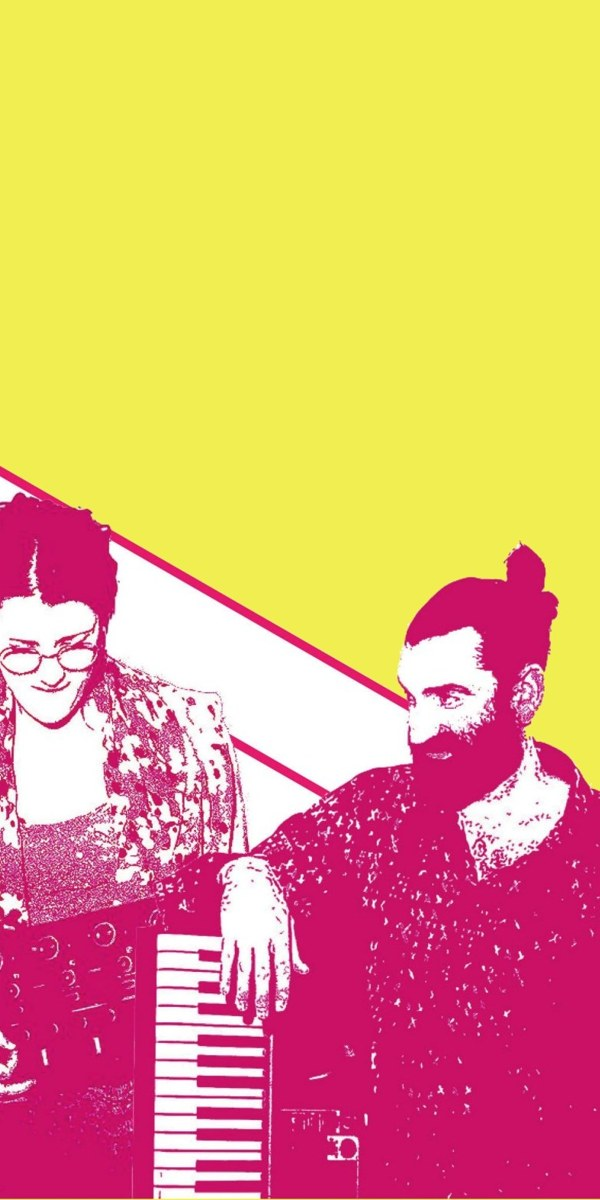
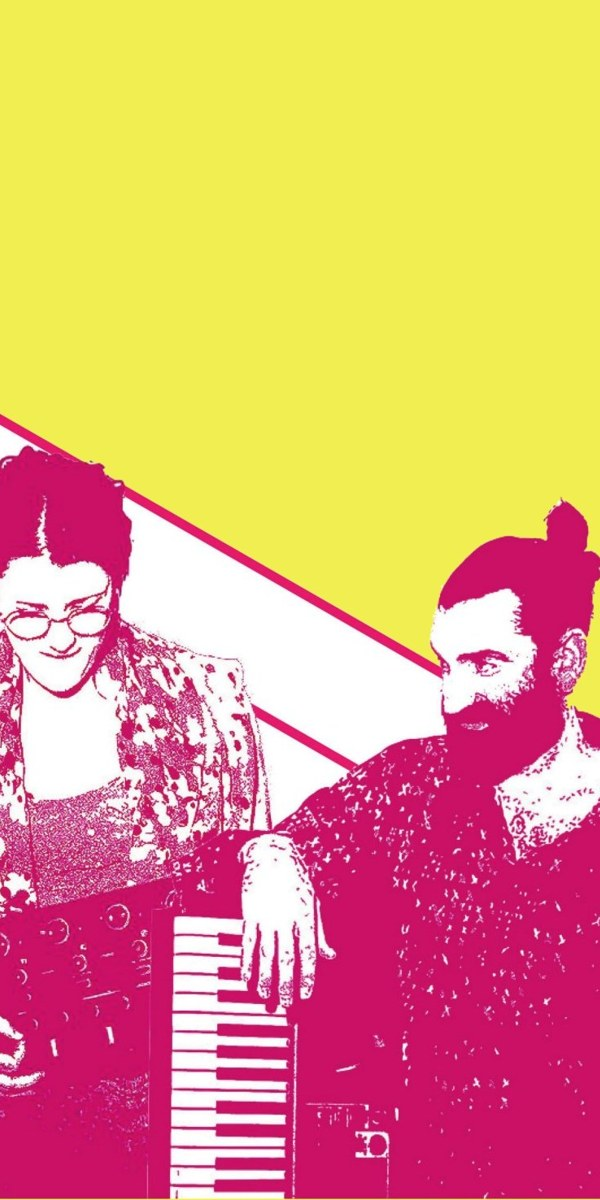
Cotonn : porte recadrée, playlist SoundCloud, article Midi Libre, galerie de photos d'Olivier, sans Pac Max
Claude-Session: https://claude.ai/code/session_01UCei2hCgZKWKxfUSQmgguv

Changed region(s): [[0.0, 0.3392, 1.0, 1.0], [0.72, 0.8942, 0.87, 0.925], [0.81, 0.9867, 0.84, 1.0]]

diff --git a/cotonn/index.html b/cotonn/index.html
@@ -46,7 +46,10 @@ h2{font-size:40px;line-height:1.1;align-self:flex-start;border-bottom:4px solid 
 .hero .menu a{text-decoration:none;padding:8px 18px;border-radius:30px;background:#C91265;color:#FFF6C9;font-family:'Fredoka',sans-serif;font-weight:500;font-size:15px;letter-spacing:.04em}
 .hero .menu a:hover{background:#3A1027}
 .hero .duo{position:relative;z-index:1;width:min(92vw,620px);margin-top:2vh}
-.ecoute iframe{width:100%;height:120px;border:0;margin-top:8px}
+.ecoute iframe{width:100%;height:120px;border:0;margin-top:8px}.ecoute iframe.liste{height:400px}
+.presse{margin:26px 0 0;padding:16px 20px;background:rgba(255,255,255,.55);border-left:5px solid #C91265;border-radius:4px}.presse p{margin:0;font-family:'Fredoka',sans-serif;font-size:20px;color:#C91265}.presse cite{display:block;margin-top:4px;font-size:15px;font-style:normal}
+.galerie{display:grid;grid-template-columns:repeat(3,1fr);gap:14px}.galerie figure{margin:0}.galerie img{width:100%;aspect-ratio:4/5;object-fit:cover;border:5px solid #fff;box-shadow:4px 4px 0 #C91265}.galerie figure:nth-child(odd) img{transform:rotate(-1.2deg)}.galerie figure:nth-child(even) img{transform:rotate(1.2deg)}
+@media(max-width:640px){.galerie{grid-template-columns:1fr 1fr}}
 .tout{margin-top:10px;font-size:16px}
 .affiche{width:100%;max-width:420px;margin:22px auto 0;border:5px solid #fff;box-shadow:6px 6px 0 #C91265}
 figcaption{font-size:14px;text-align:center;margin-top:10px}
@@ -56,12 +59,11 @@ figcaption{font-size:14px;text-align:center;margin-top:10px}
 </style>
 </head>
 <body>
-<nav class="haut"><a class="col" href="../projets.html">← Les projets</a><ul><li><a href="#accueil">Accueil</a></li><li><a href="#projet">Le projet</a></li><li><a href="#ecouter">Écouter</a></li><li><a href="#venir">Faire venir Cotonn</a></li></ul></nav>
+<nav class="haut"><a class="col" href="../projets.html">← Les projets</a><ul><li><a href="#accueil">Accueil</a></li><li><a href="#projet">Le projet</a></li><li><a href="#ecouter">Écouter</a></li><li><a href="#images">Images</a></li><li><a href="#venir">Faire venir Cotonn</a></li></ul></nav>
 <main>
-<section id="accueil" class="vue accueil"><div class="dedans"><div class="hero"><a class="retour-col" href="../projets.html">← Les projets</a><div class="titre"><h1>cotonn!</h1><p class="sous">Un duo du quotidien au son décalé</p><div class="menu"><a href="#projet">Le projet</a><a href="#ecouter">Écouter</a><a href="#venir">Faire venir Cotonn</a></div></div><img class="duo" src="duo.jpg" alt="Amélie et Samuel Zaroukian, le duo Cotonn, au clavier et aux machines"></div></div></section>
-<section id="projet" class="vue"><div class="dedans"><h2>Le projet</h2><p class="accroche">Embarquez pour un voyage poético-sonore.</p><p>Cotonn, c'est le duo d'Amélie et Samuel Zaroukian, né en 2017, à la naissance de Lou. Un cocon musical à 2 voix&nbsp;: des chansons qui parlent de nous et de notre vie, sur un ton décalé.</p><p>Samuel compose, chante et joue du clavier&nbsp;; Amélie chante. Pac Max les a rejoints au beatbox. Un concert théâtralisé, pour les petites jauges.</p><ul class="infos"><li><b>Forme</b>Concert théâtralisé, chanson à texte</li><li><b>Depuis</b>2017</li><li><b>Sur scène</b>Amélie Zaroukian (chant), Samuel Zaroukian (chant, clavier), Pac Max (beatbox)</li><li><b>Musique</b>Compositions de Samuel Zaroukian</li></ul><figure style="margin:0"><a href="affiche-2018.jpg" target="_blank" rel="noopener"><img class="affiche" src="affiche-2018.jpg" alt="Affiche du concert de Cotonn le 9 juin 2018, salle Paul Doumer à Fabrègues" loading="lazy"></a><figcaption>Concert du 9 juin 2018, salle Paul Doumer, Fabrègues</figcaption></figure><p class="credit">Cotonn · Collectif 22h13min</p></div></section>
-<section id="ecouter" class="vue"><div class="dedans"><h2>Écouter</h2><div class="ecoute"><p class="accroche" style="margin-bottom:0">Café noir</p><iframe title="Cotonn — Café noir" loading="lazy" allow="autoplay" scrolling="no" src="https://w.soundcloud.com/player/?url=https%3A%2F%2Fsoundcloud.com%2Fsamuel-zaroukian%2Fcafe-noir-3&color=%23c91265&auto_play=false&hide_related=true&show_comments=false&show_user=false&show_reposts=false&show_teaser=false&show_artwork=false"></iframe></div><p class="tout"><a href="https://soundcloud.com/samuel-zaroukian" target="_blank" rel="noopener">Plus de musique sur SoundCloud →</a></p></div></section>
-<section id="venir" class="vue"><div class="dedans"><h2>Faire venir Cotonn</h2><p class="accroche">Une salle, une soirée, un petit lieu&nbsp;?</p><p>Écrivez au Collectif&nbsp;: <b><a href="mailto:22h13min@gmail.com" style="color:inherit">22h13min@gmail.com</a></b>.</p><a class="pied-col" href="../index.html">Collectif 22h13min · 22h13.fr</a></div></section>
+<section id="accueil" class="vue accueil"><div class="dedans"><div class="hero"><a class="retour-col" href="../projets.html">← Les projets</a><div class="titre"><h1>cotonn!</h1><p class="sous">Un duo du quotidien au son décalé</p><div class="menu"><a href="#projet">Le projet</a><a href="#ecouter">Écouter</a><a href="#images">Images</a><a href="#venir">Faire venir Cotonn</a></div></div><img class="duo" src="duo.jpg" alt="Amélie et Samuel Zaroukian, le duo Cotonn, au clavier et aux machines"></div></div></section>
+<section id="projet" class="vue"><div class="dedans"><h2>Le projet</h2><p class="accroche">Embarquez pour un voyage poético-sonore.</p><p>Cotonn, c'est le duo d'Amélie et Samuel Zaroukian, né en 2017, à la naissance de Lou. Un cocon musical à 2 voix&nbsp;: des chansons qui parlent de nous et de notre vie, sur un ton décalé.</p><p>Samuel compose, chante et joue du clavier&nbsp;; Amélie chante. Un concert théâtralisé, pour les petites jauges.</p><ul class="infos"><li><b>Forme</b>Concert théâtralisé, chanson à texte</li><li><b>Depuis</b>2017</li><li><b>Sur scène</b>Amélie Zaroukian (chant), Samuel Zaroukian (chant, clavier)</li><li><b>Musique</b>Compositions de Samuel Zaroukian</li></ul><figure style="margin:0"><a href="affiche-2018.jpg" target="_blank" rel="noopener"><img class="affiche" src="affiche-2018.jpg" alt="Affiche du concert de Cotonn le 9 juin 2018, salle Paul Doumer à Fabrègues" loading="lazy"></a><figcaption>Concert du 9 juin 2018, salle Paul Doumer, Fabrègues</figcaption></figure><p class="credit">Cotonn · Collectif 22h13min</p></div></section>
+<section id="ecouter" class="vue"><div class="dedans"><h2>Écouter</h2><p class="accroche">Les chansons de Cotonn.</p><div class="ecoute"><iframe class="liste" title="Cotonn sur SoundCloud" loading="lazy" allow="autoplay" scrolling="no" src="https://w.soundcloud.com/player/?url=https%3A%2F%2Fsoundcloud.com%2Fsamuel-zaroukian%2Fsets%2Fcotonn&color=%23c91265&auto_play=false&hide_related=true&show_comments=false&show_user=false&show_reposts=false&show_teaser=false&show_artwork=false"></iframe></div><p class="tout"><a href="https://soundcloud.com/samuel-zaroukian/sets/cotonn" target="_blank" rel="noopener">Écouter Cotonn sur SoundCloud →</a></p><blockquote class="presse"><p>« Bon concert du groupe Cotonn »</p><cite>Midi Libre, 19 juin 2018 · <a href="https://www.midilibre.fr/2018/06/19/bon-concert-du-groupe-cotonn,4069517.php" target="_blank" rel="noopener">lire l'article ↗</a></cite></blockquote></div></section><section id="images" class="vue"><div class="dedans"><h2>Images</h2><div class="galerie"><figure><img src="photo-1.jpg" alt="Amélie chante au micro, Samuel au piano, dans un salon" loading="lazy"></figure><figure><img src="photo-2.jpg" alt="Amélie Zaroukian au micro, les mains devant le visage" loading="lazy"></figure><figure><img src="photo-3.jpg" alt="Samuel au piano, Amélie au micro derrière lui" loading="lazy"></figure><figure><img src="photo-4.jpg" alt="Samuel au piano et Amélie au micro, devant une bibliothèque" loading="lazy"></figure><figure><img src="photo-5.jpg" alt="Amélie Zaroukian craque une allumette devant le micro" loading="lazy"></figure><figure><img src="photo-6.jpg" alt="Samuel Zaroukian sourit au micro" loading="lazy"></figure><figure><img src="photo-7.jpg" alt="Amélie penchée vers Samuel au piano" loading="lazy"></figure><figure><img src="photo-8.jpg" alt="Samuel au piano, Amélie assise au micro" loading="lazy"></figure><figure><img src="photo-9.jpg" alt="Le public d'un concert de Cotonn, dans un salon" loading="lazy"></figure></div><p class="credit">Photos : Olivier</p></div></section><section id="venir" class="vue"><div class="dedans"><h2>Faire venir Cotonn</h2><p class="accroche">Une salle, une soirée, un petit lieu&nbsp;?</p><p>Écrivez au Collectif&nbsp;: <b><a href="mailto:22h13min@gmail.com" style="color:inherit">22h13min@gmail.com</a></b>.</p><a class="pied-col" href="../index.html">Collectif 22h13min · 22h13.fr</a></div></section>
 </main>
 
 <script>
